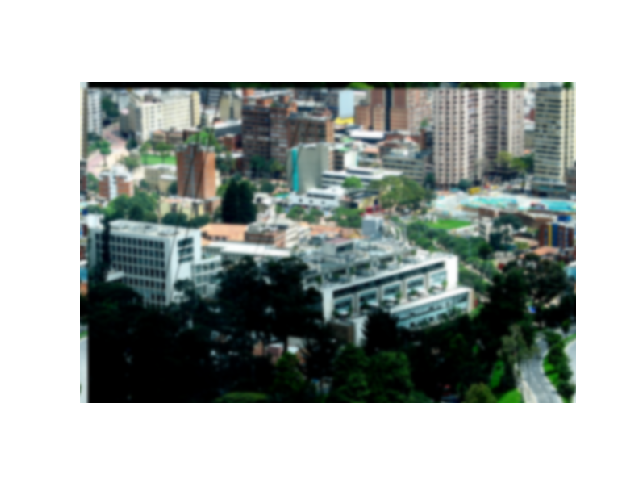
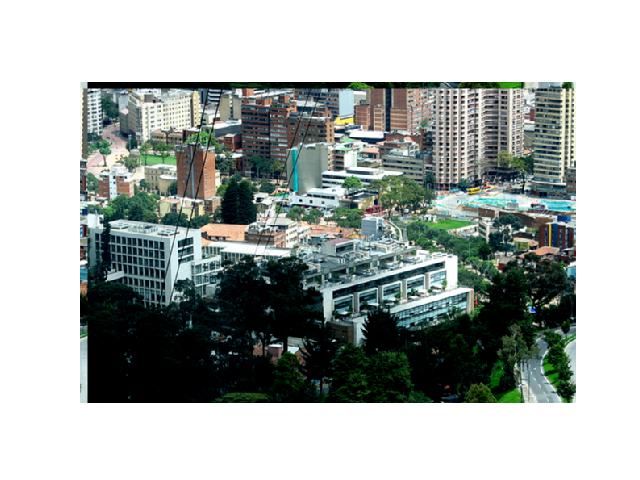
Se cambio el uso de un filtro pasabajas gaussiano, a un filtro pasabajas suave de diferente estructura. Se realizó el cambio en los archivos filtro.py y filtroMI.py

diff --git a/punto_2/filtro.py b/punto_2/filtro.py
@@ -39,14 +39,21 @@ def invbifourier(array):
 			imagen[m, n] = val
 	return np.transpose(imagen)
 
-def lowpassfilter(size):
+"""def lowpassfilter(size):
 	t = np.linspace(-10, 10, 20)
 	gauss = np.exp(-1*(1/2*0.5**2)*t**2)
 	gauss /= np.sum(gauss) # Se normaliza el kernel
 	kernel = gauss[:, np.newaxis] * gauss[np.newaxis, :]
 	gaussiana = np.zeros((X,Y))
 	gaussiana[:kernel.shape[0],:kernel.shape[1]] = kernel
-	return gaussiana
+	return gaussiana"""
+
+def lowpassfilter(size):
+	kernel = np.ones((size, size))
+	kernel /= size**2
+	lowpass = np.zeros((X,Y))
+	lowpass[:kernel.shape[0],:kernel.shape[1]] = kernel
+	return lowpass
 
 
 def highpassfilter(size):

diff --git a/punto_2/filtroMI.py b/punto_2/filtroMI.py
@@ -38,14 +38,13 @@ def invbifourier(array):
 			imagen[m, n] = val
 	return np.transpose(imagen)
 
+
 def lowpassfilter(size):
-	t = np.linspace(-10, 10, 20)
-	gauss = np.exp(-1*(1/2*0.5**2)*t**2)
-	gauss /= np.sum(gauss) # Se normaliza el kernel
-	kernel = gauss[:, np.newaxis] * gauss[np.newaxis, :]
-	gaussiana = np.zeros((X,Y))
-	gaussiana[:kernel.shape[0],:kernel.shape[1]] = kernel
-	return gaussiana
+	kernel = np.ones((size, size))
+	kernel /= size**2
+	lowpass = np.zeros((X,Y))
+	lowpass[:kernel.shape[0],:kernel.shape[1]] = kernel
+	return lowpass
 
 
 def highpassfilter(size):
